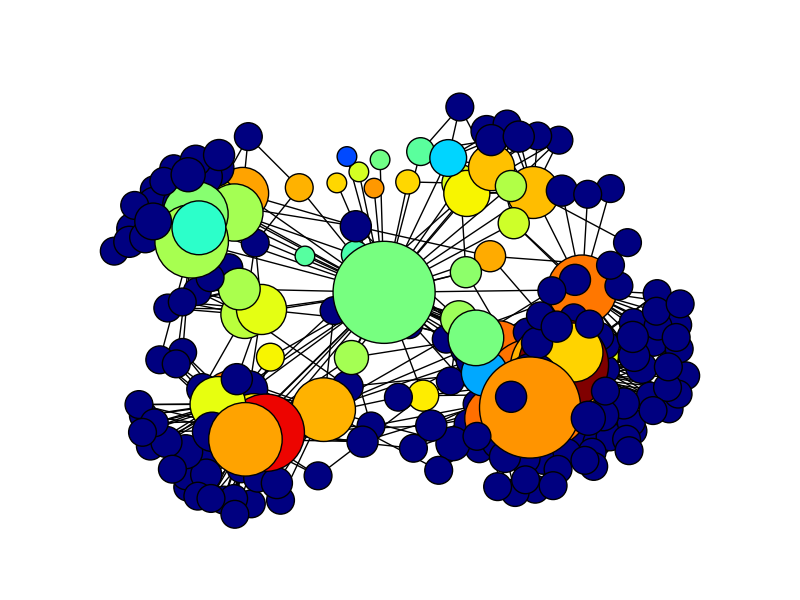
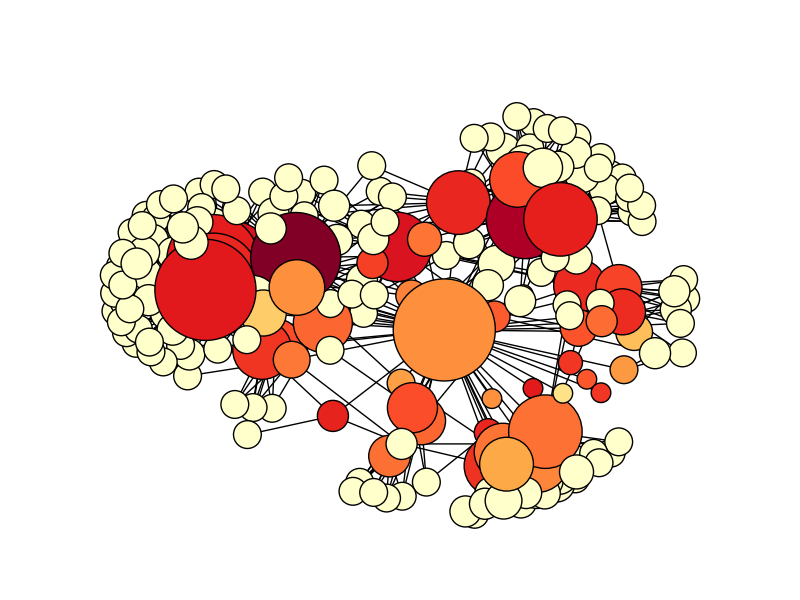
Correct error delaying and improve colormap

diff --git a/get.py b/get.py
@@ -39,6 +39,9 @@ def get_profile(uid, req_fields = 'first_name, last_name, sex'):
     '''get information (profile) about user with specified uid'''
     answer = None
     error_count = 0
+    # used to delay request with errors
+    time_to_sleep = random.uniform(0.05, 0.15)
+
     while True:
         try:
             # get only first element of list 
@@ -51,13 +54,20 @@ def get_profile(uid, req_fields = 'first_name, last_name, sex'):
             error_count += 1
             print('E: profile {0}. ' \
                   'Now try again (#{1})...'.format(uid, error_count))
+            # Need to sleep due to vk.com bandwidth limitations
+            time.sleep(time_to_sleep)
+            # exponentially increase time_to_sleep
+            time_to_sleep *= 2
     return answer
 
 def get_friends(profile, req_fields = 'first_name, last_name, sex', 
-                max_err_count = 5):
+                max_err_count = 6):
     '''get list with friend profiles of user with specified profile'''
     answer = None
     error_count = 0
+    # used to delay request with errors
+    time_to_sleep = random.uniform(0.05, 0.15)
+
     while True:
         try:
             # get only first element of list 
@@ -77,9 +87,11 @@ def get_friends(profile, req_fields = 'first_name, last_name, sex',
             if error_count < max_err_count:
                 print('Now try again (#{0})...'.format(error_count))
                 # Need to sleep due to vk.com bandwidth limitations
-                time.sleep(random.random())
+                time.sleep(time_to_sleep)
+                # exponentially increase time_to_sleep
+                time_to_sleep *= 2
             else:
-                print('\nReached maximal error count (#{0})! ' \
+                print('\nReached maximal error count ({0})! ' \
                       'Skipping...'.format(error_count))
                 return []
 

diff --git a/plot.py b/plot.py
@@ -70,6 +70,7 @@ try:
     start_time = time.time()
     G = io.read_graph((args.path))
     nx.draw(G,
+            cmap = plt.cm.YlOrRd,
             labels = assign_labels(G),
             node_size = assign_node_sizes(G),
             node_color = assign_colors(G),
